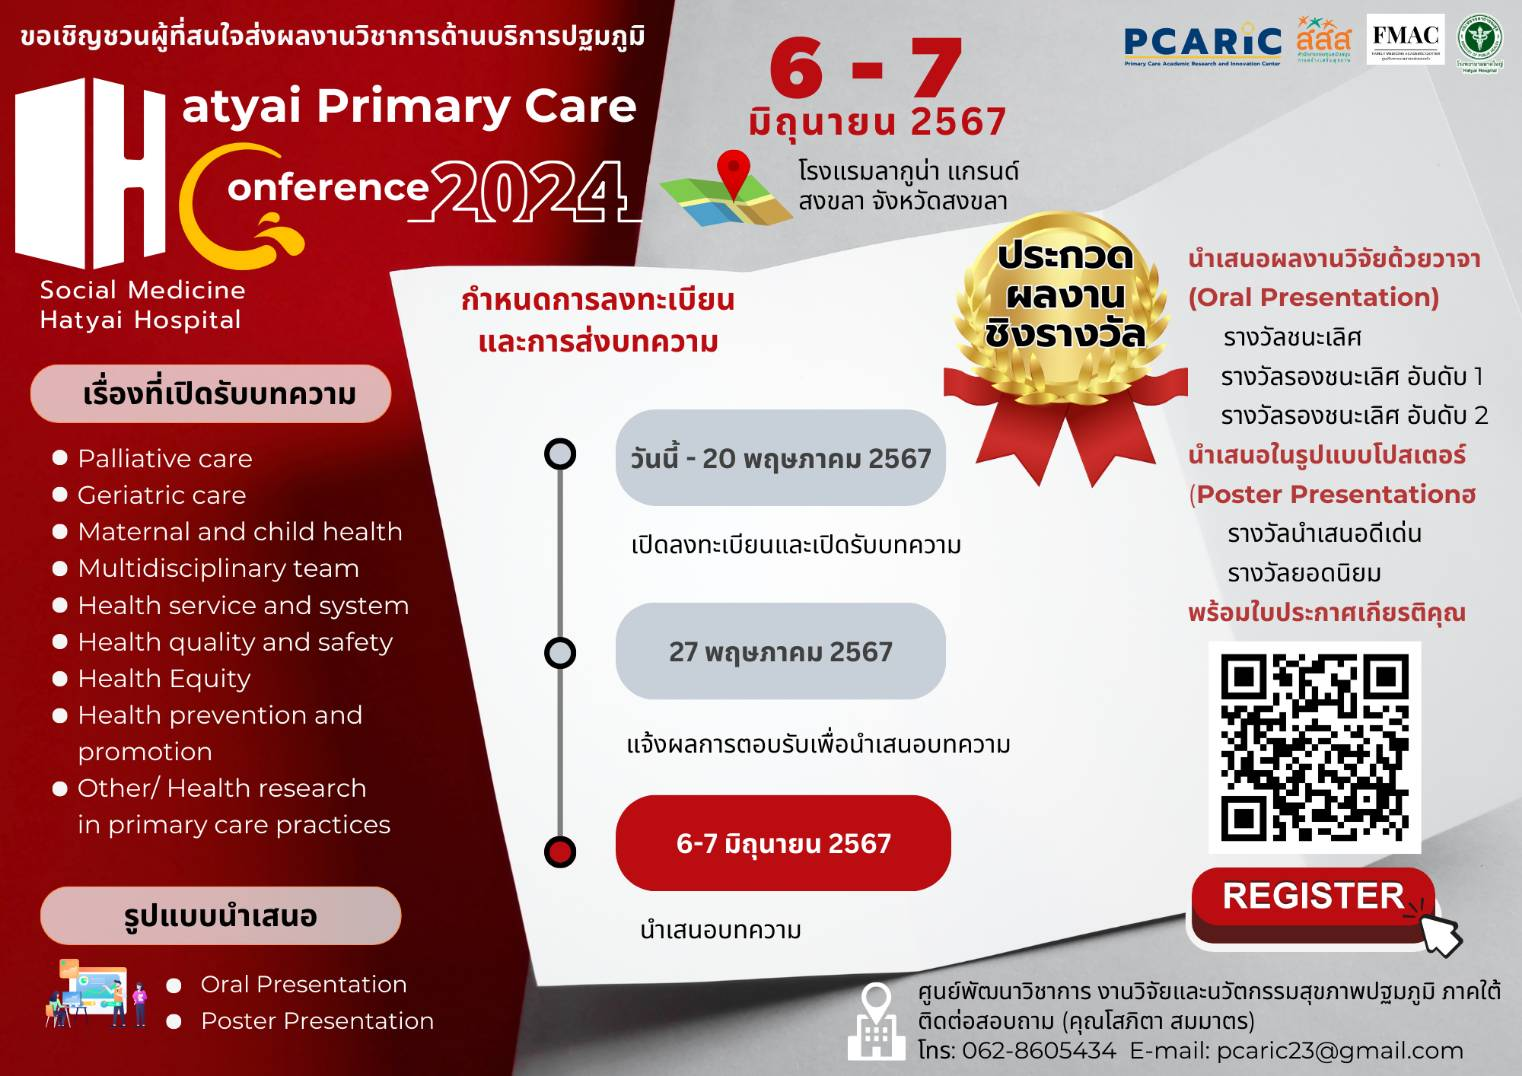
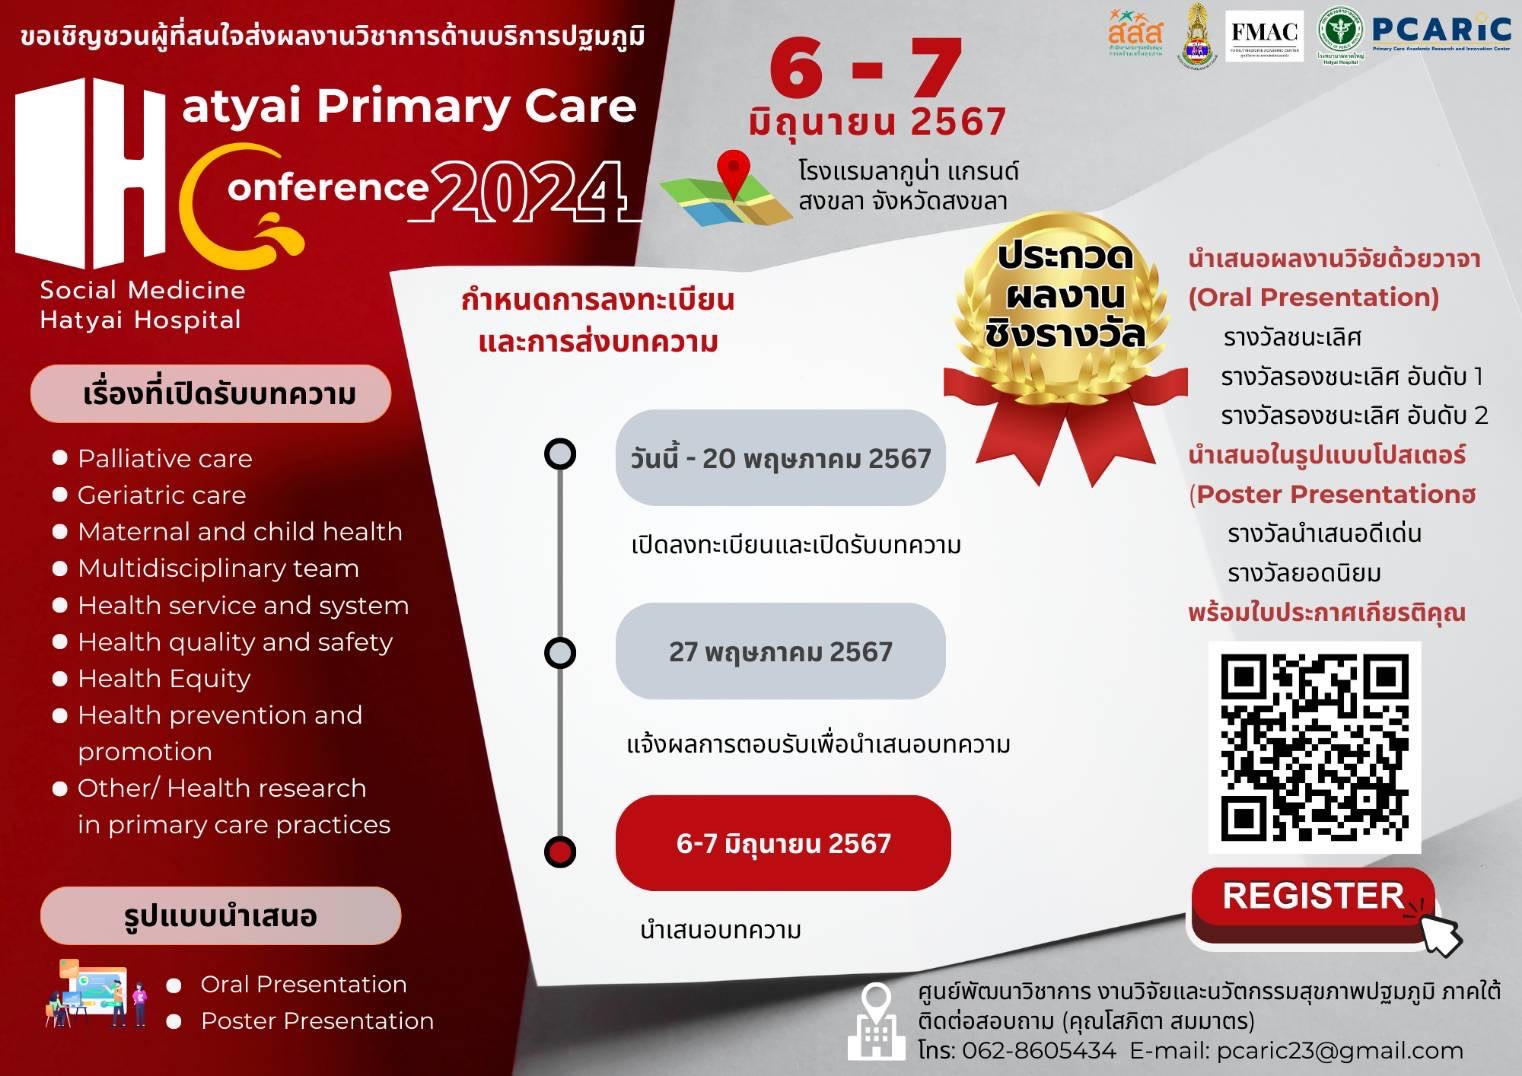
Moved sponsor and update some photo

Changed region(s): [[0.7102, 0.0, 1.0, 0.092]]

diff --git a/app/schedule/page.js b/app/schedule/page.js
@@ -15,7 +15,7 @@ const day1GrandHall = {
         {
             time:'8.30-9.00',
             topic:'Opening Ceremony',
-            description:['พิธีเปิดโดย ผู้อำนวยการโรงพยาบาลหาดใหญ่']
+            description:['พิธีเปิด']
         },
         {
             time:'9.00-10.30',
@@ -27,8 +27,8 @@ const day1GrandHall = {
         },
         {
             time:'10.30-11.00',
-            topic:'รับประทานอาหารว่าง',
-            description:[]
+            topic:'Coffee break',
+            description:['BERLIN']
         },
         {
             time:'11.00-12.00',
@@ -38,7 +38,7 @@ const day1GrandHall = {
         {
             time:'12.00-13.00',
             topic:'Lunch symposium',
-            description:[]
+            description:['AstraZeneca']
         }
     ]
 }
@@ -54,7 +54,7 @@ const day1Room1 = {
         },
         {
             time:'14.30-15.00',
-            topic:'รับประทานอาหารว่าง',
+            topic:'Coffee break',
             description:[]
         },
         {
@@ -76,7 +76,7 @@ const day1Room2 = {
         },
         {
             time:'14.30-15.00',
-            topic:'รับประทานอาหารว่าง',
+            topic:'Coffee break',
             description:[]
         },
         {
@@ -98,7 +98,7 @@ const day1Room3 = {
         },
         {
             time:'14.30-15.00',
-            topic:'รับประทานอาหารว่าง',
+            topic:'Coffee break',
             description:[]
         },
         {
@@ -117,6 +117,11 @@ const day2GrandHall = {
             time:'8.30-9.30',
             topic:'Kratom: Understanding the Facts and Implications',
             description:['ภก.อดิศักดิ์ เมฆตรง']
+        },
+        {
+            time:'12.00-13.00',
+            topic:'Lunch symposium',
+            description:['PROSP PHARMA อุดม เมดิคอล อิควิปเม้นท์']
         },
         {
             time:'14.30-15.30',
@@ -142,7 +147,7 @@ const day2Room1 = {
         },
         {
             time:'10.45-11.00',
-            topic:'รับประทานอาหารว่าง',
+            topic:'Coffee break',
             description:[]
         },
         {
@@ -174,7 +179,7 @@ const day2Room2 = {
         },
         {
             time:'10.45-11.00',
-            topic:'รับประทานอาหารว่าง',
+            topic:'Coffee break',
             description:[]
         },
         {
@@ -206,7 +211,7 @@ const day2Room3 = {
         },
         {
             time:'10.45-11.00',
-            topic:'รับประทานอาหารว่าง',
+            topic:'Coffee break',
             description:[]
         },
         {

diff --git a/app/speakers/page.js b/app/speakers/page.js
@@ -9,7 +9,7 @@ import ApisanPhoto from '/public/speakers/apisan.png'
 import SupatraPhoto from '/public/speakers/supatra.png'
 import VeerasakPhoto from '/public/speakers/veerasak.png'
 import KrisanaPhoto from '/public/speakers/krisana.png'
-import OrawanPhoto from '/public/speakers/orawan.png'
+import OrawanPhoto from '/public/speakers/orawan.jpg'
 import KraisornPhoto from '/public/speakers/kraisorn.png'
 import ThammasinPhoto from '/public/speakers/thammasin.png'
 import KritPhoto from '/public/speakers/krit.png'
@@ -21,6 +21,9 @@ import HathaitipPhoto from '/public/speakers/hathaitip.png'
 import KaninPhoto from '/public/speakers/kanin.png'
 import WasinPhoto from '/public/speakers/wasin.png'
 import NisachonPhoto from '/public/speakers/nisachon.jpg'
+import JustmePhoto from '/public/speakers/justme.jpg'
+import CharchristPhoto from '/public/speakers/charchrist.jpg'
+import AekaponPhoto from '/public/speakers/aekapon.jpg'
 
 const speakers = [
     {
@@ -36,13 +39,15 @@ const speakers = [
         description:['Innovative Approaches in Primary Care: Global Persepctives and Local Solutions']
     },
     {
+        photo: JustmePhoto,
         name:'พญ.จัสมี โนะ',
         position:'นายแพทย์ชำนาญการพิเศษ รพ.ระแงะ',
         description:['Innovative Approaches in Primary Care: Global Persepctives and Local Solutions', 'QI in Primary Care and Research']
     },
     {
+        photo: CharchristPhoto,
         name:'ชาคริต โภชะเรือง',
-        position:'ประธานสมัชชาสุขภาพจังหวัดสงขลา',
+        position:'ผู้ประสานงานเครือข่ายแผนสุขภาพจังหวัดสงขลา, ผู้จัดการมูลนิธิชุมชน สงขลา',
         description:['Innovative Approaches in Primary Care: Global Persepctives and Local Solutions']
     },
     {
@@ -64,7 +69,7 @@ const speakers = [
         description:['Empowering Primary Care: The Bedrock of Resilient Health Systems']
     },
     {
-        photo:'',
+        photo:AekaponPhoto,
         name:'นพ.เอกพล พิศาล',
         position:'ผู้อำนวยการ รพ.บ้านตาขุน',
         description:['Discussion: การดำเนินงานคลินิกเบาหวานระยะสงบ “บทเรียนจากสุราษฏร์ธานี”']

diff --git a/src/Contact.js b/src/Contact.js
@@ -1,23 +1,17 @@
 import React from 'react'
 import Image from 'next/image'
 // Import Static logo
-import RcfptLogo from '/public/sponsors/rcfpt_logo.png'
-import FmacLogo from '/public/sponsors/fmac_logo.png'
-import HdyLogo from '/public/sponsors/hdy_logo.png'
-import PcaricLogo from '/public/sponsors/pcaric_logo.png'
-import SssLogo from '/public/sponsors/sss_logo.png'
-import SaafLogo from '/public/sponsors/saaf_logo.png'
 import BerlinLogo from '/public/sponsors/berlin_logo.png'
+import AZLogo from '/public/sponsors/az_logo.png'
+import MillimedLogo from '/public/sponsors/millimed_logo.jpg'
+import UdomLogo from '/public/sponsors/udom_logo.png'
 
 export default function Contact() {
   const sponsorImages = [
-    { src: RcfptLogo, alt: 'The Royal College of Family Physicians of Thailand' },
-    { src: FmacLogo, alt: 'Family Medicine Academic Center' },
-    { src: HdyLogo, alt: 'Hatyai Hospital' },
-    { src: PcaricLogo, alt: 'Primary Care Academic Research and Innovation Center' },
-    { src: SssLogo, alt: 'sss' },
-    { src: SaafLogo, alt: 'มูลนิธิศูนย์วิชาการสารเสพติด' },
-    { src: BerlinLogo, alt: 'Berlin' }
+    { src: BerlinLogo, alt: 'Berlin' },
+    { src: AZLogo, alt: 'AstraZaneca'},
+    { src: MillimedLogo, alt: 'Millimed BFS'},
+    { src: UdomLogo, alt:'Udom.'}
   ]
 
   return (
@@ -51,13 +45,14 @@ export default function Contact() {
           </div>
         </div>
         <div className='xl:col-span-2 py-2 px-4'>
-        <p className='text-gray-800 text-lg font-bold text-start mb-2'>Support By</p>
+        <p className='text-gray-800 text-lg font-bold text-start mb-2'>Sponsors</p>
           <div className='xl:grid grid-cols-2'>
             {sponsorImages.map((sponsor, index) => (
               <div key={index} className='xl:col-span-1 p-2 m-2'>
                 <Image
                   src={sponsor.src}
                   alt={sponsor.alt}
+                  style={{width:'75%'}}
                   unoptimized
                 />
               </div>

diff --git a/src/MainContent.js b/src/MainContent.js
@@ -24,20 +24,6 @@ export default function MainContent() {
             <div className='mt-5'>
               <Link href={'/abstracts'} className='text-gray-500 text-lg font-bold xl:text-xl 2xl:text-2xl hover:underline'>ร่วมส่งผลงาน</Link>
             </div>
-            <div className='mt-5'>
-                <p className='text-gray-800 text-lg font-bold xl:text-xl 2xl:text-2xl'>สถานที่จัดงาน</p>
-                <p className='text-black text-base xl:text-lg 2xl:text-xl mt-2'>โรงแรมสงขลาลากูน่า Laguna Grand Hotel and Spa Songkhla</p>
-                <p className='text-gray-400 text-base xl:text-lg 2xl:text-xl mt-2'>Location (Google Maps)</p>
-                <div className="relative w-full overflow-hidden" style={{ paddingTop: '56.25%' }}>
-                  <iframe 
-                    className="absolute top-0 left-0 w-full h-full border-0"
-                    src="https://www.google.com/maps/embed?pb=!1m18!1m12!1m3!1d3959.00557281763!2d100.5539031103155!3d7.125349615847764!2m3!1f0!2f0!3f0!3m2!1i1024!2i768!4f13.1!3m3!1m2!1s0x304d2d0fe55ae283%3A0x55a2cd31371eb734!2sLaguna%20Grand%20Hotel%20%26%20Spa%20Songkhla!5e0!3m2!1sen!2sth!4v1712935548059!5m2!1sen!2sth"
-                    allowFullScreen
-                    loading="lazy"
-                    referrerPolicy="no-referrer-when-downgrade"
-                  />
-                </div>
-            </div>
         </div>
     </>
   )

diff --git a/app/abstracts/page.js b/app/abstracts/page.js
@@ -194,8 +194,8 @@ export default function AbstractsPage() {
                     </div>
                     <div className='p-4 bg-white rounded-lg shadow-md mt-5'>
                         <p className='font-bold text-3xl mb-4'>Contact</p>
-                        <p className='text-base'>If you have any questions regarding your submitted abstract or the abstract submission process, do not hesitate to reach out to: <span className='font-bold underline'>pcaric23@gmail.com</span></p>
-                        <p className='text-base'>If your inquiry is regarding a particular draft or submission, please include the abstract ID in your email.</p>
+                        <p className='text-base'>คำถามเพิ่มเติม หรือมีปัญหาเกี่ยวกับการส่งบทความ กรุณาติดต่อ: <span className='font-bold underline'>pcaric23@gmail.com</span></p>
+                        <p className='text-base'>กรุณาระบุชื่อบทความใน email ในกรณีที่ท่านต้องการติดต่อเรื่องขั้นตอนการส่งงาน</p>
                     </div>
                 </div>
             </div>

diff --git a/app/page.js b/app/page.js
@@ -4,6 +4,7 @@ import ConferenceDate from "@/src/ConferenceDate"
 import MainContent from "@/src/MainContent"
 import Speaker from "@/src/Speaker"
 import Contact from "@/src/Contact"
+import Sponsor from "@/src/Sponsor"
 
 //Import Speaker's photo individually
 import ApisanPhoto from '/public/speakers/apisan.png'
@@ -29,6 +30,7 @@ export default function Home() {
               <div className="flex flex-wrap gap-2 sm:gap-4">
               <Speaker photo={ApisanPhoto} name='นพ.อภิสรรค์ บุญประดับ' position='ผู้อำนวยการ กองปฐมภูมิ' description={['Innovative Approaches in Primary Care: Global Persepctives and Local Solutions']}/>
               <Speaker photo={SupatraPhoto} name='พญ.สุพัตรา ศรีวณิชชากร' position='ประธานราชวิทยาลัยแพทย์เวชศาสตร์ครอบครัวประเทศไทย' description={['Innovative Approaches in Primary Care: Global Persepctives and Local Solutions']}/>
+              <Sponsor/>
               </div>
             </div>
           </div>

diff --git a/src/Sponsor.js b/src/Sponsor.js
@@ -1,0 +1,28 @@
+import React from 'react'
+import Image from 'next/image'
+
+// import static image
+import RcfptLogo from '/public/sponsors/rcfpt_logo.png'
+import FmacLogo from '/public/sponsors/fmac_logo.png'
+import HdyLogo from '/public/sponsors/hdy_logo.png'
+import PcaricLogo from '/public/sponsors/pcaric_logo.png'
+import SssLogo from '/public/sponsors/sss_logo.png'
+import SaafLogo from '/public/sponsors/saaf_logo.png'
+
+const sponsors = [RcfptLogo, HdyLogo, FmacLogo, PcaricLogo, SssLogo, SaafLogo]
+
+
+export default function Sponsor() {
+    return (
+      <div className='flex flex-col h-full justify-center'>
+        <div className='p-4 bg-white rounded-lg shadow-md flex flex-col h-full'> 
+          <p className='text-xl font-bold mb-4 text-center'>Supported by</p>
+          {sponsors.map((img, index) => (
+            <div key={index} className='grid grid-cols-1 mb-2 xl:mb-4 justify-items-center'>
+                <Image src={img} alt='sponsor' unoptimized/>
+            </div>
+          ))}
+        </div>
+      </div>
+    )
+  }
